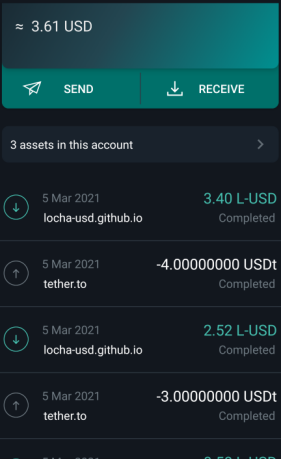
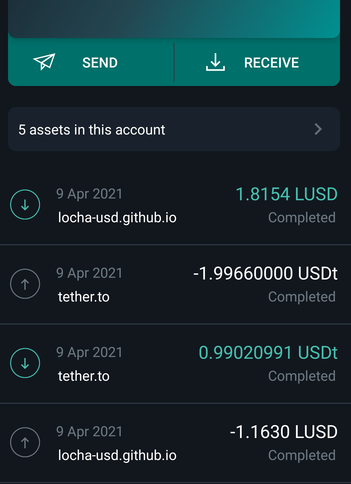
LUSD 2 ways fix

diff --git a/custom-assets/LUSD/LUSD.md b/custom-assets/LUSD/LUSD.md
@@ -28,52 +28,41 @@ permalink: /custom-assets/LUSD/LUSD
 
 [LUSD circulating supply:](https://blockstream.info/liquid/asset/84467161a382f4b55912805a1ab992c89a7ca126024dbf1463b3d8d5cdf9e68b)
 
-
+***
 # Verify USDT Collateral
 
 [USDT collateral:](https://blockstream.info/liquid/asset/84467161a382f4b55912805a1ab992c89a7ca126024dbf1463b3d8d5cdf9e68b)
 ##### !need a custom block explorer to show the confidential txs there or a service to publish blinding keys 
-
+***
 # USDT - LOCHA Exchange
 
 ## Private exchange services
 ##### !warning only ["Confidential Transactions accepted by now"](https://docs.blockstream.com/liquid/technical_overview.html#confidential-transactions).
 
-<img class="" alt="LUSD asset info" src="{{ site.url }}/images/LUSD_fx_green2.png" />
+Works through specific addresses only for two-way exchange:
 
+## example exchange address: 
 
-```
-1 USDT ----> 
-       <---- 1 LUSD - network fee - fx fee
-
-```
+[Gvnfud1pAvxp156XZA76UutKCHndsj46N5](https://blockstream.info/liquid/address/Gvnfud1pAvxp156XZA76UutKCHndsj46N5)
 
 <img class="" alt="LUSD fx address" src="{{ site.url }}/images/LUSD_fx_address_m.png" />
 
-
-
-* verify the USDT collateral         [here:](https://blockstream.info/liquid/address/Gvnfud1pAvxp156XZA76UutKCHndsj46N5) 
-* verify the LUSD circulating supply [here:](https://blockstream.info/liquid/asset/84467161a382f4b55912805a1ab992c89a7ca126024dbf1463b3d8d5cdf9e68b)
-
-## Supply control by collateral
-
-<img class="" alt="LUSD asset info" src="{{ site.url }}/images/LUSD_supply_green.png" />
+## two ways exchange
 
 ```
-initial supply: 100,7503 LUSD
+1.9966 USDT    ----> exchange address 
+user address  <---- 1,8154 LUSD 
 
-105 USDT ---->
-              <---- 104.6020 LUSD 
 
-final circulating supply 104.6020
+1.1630 LUSD    ----> exchange address
+user address  <---- 0.9902 USDT 
+
 ```
-
-* verify the USDT collateral         [here:](https://blockstream.info/liquid/address/Gvnfud1pAvxp156XZA76UutKCHndsj46N5)
-##### TODO run our own block explorer to show the blind utxos at exchange address and probably !, atm use will not be able to verify the collateral amount at the exchange address due to greenwallet mandatory CT, run a private explorer or add an enpoint with the blind key 
-* verify the LUSD circulating supply [here:](https://blockstream.info/liquid/asset/84467161a382f4b55912805a1ab992c89a7ca126024dbf1463b3d8d5cdf9e68b)
+## example using [green wallet](https://blockstream.com/green/)
 
 
-##### TODO* LUSD ---> USDT fx 
+<img class="" alt="LUSD asset info" src="{{ site.url }}/images/LUSD_fx_green.png" />
+
 
 ***
 # FAQ 
